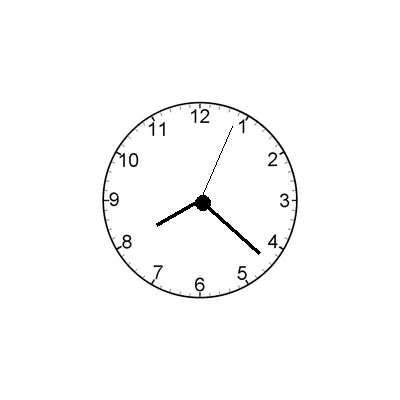
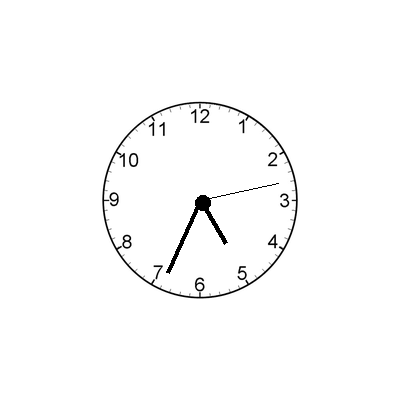
I arranged the buttons in grid form

Changed region(s): [[0.39, 0.51, 0.66, 0.69]]

diff --git a/Main.py b/Main.py
@@ -1,6 +1,7 @@
 
 import tkinter as tk
 from tkinter import ttk
+from tkinter import messagebox
 from math import *
 import time as tm
 import sqlite3
@@ -28,8 +29,15 @@ class AmazingButler(tk.Tk):
         menubar = tk.Menu(container)
         filemenu = tk.Menu(menubar, tearoff=0)
         menubar.add_cascade(label='File', menu=filemenu)
+        filemenu.add_command(label="New")
+        filemenu.add_command(label="Exit", command=lambda: self.controller.show_frame(StartPage))
+        
         Editmenu = tk.Menu(menubar, tearoff=0)
         menubar.add_cascade(label='Edit', menu=Editmenu)
+        Editmenu.add_command(label="Cut")
+        Editmenu.add_command(label="Copy")
+        Editmenu.add_command(label="Paste")
+        
         Optionsmenu = tk.Menu(menubar, tearoff=0)
         menubar.add_cascade(label='Options', menu=Optionsmenu)
         Toolsmenu = tk.Menu(menubar, tearoff=0)
@@ -40,6 +48,7 @@ class AmazingButler(tk.Tk):
         menubar.add_cascade(label='Help', menu=helpmenu)
         
         tk.Tk.config(self, menu=menubar)
+        
         
         self.frames = {}
         
@@ -274,32 +283,146 @@ class StartPage(tk.Frame):
 class PageOne(tk.Frame):
     def __init__(self, parent, controller):
         tk.Frame.__init__(self, parent)
+        tk.Frame.__init__(self, parent)
+        self.controller = controller
+        self.lbl = tk.Label(self, bg="white")
+        self.lbl.place(x=10, y=10, height=200, width=200)
         
+        self.working()
+        self.calendar()
+        self.weather() 
         self.button()
+        controller=self.controller
+        
+        
       
     def button(self):
         
+        self.grid_rowconfigure(0, weight=1, minsize=30)
+        self.grid_columnconfigure(0, weight=1, minsize=30)
+        
+        
         logout = tk.Button(self, text="Logout", fg='white', bd = '5', bg = 'blue',
-                           command=self.destroy)
-        logout.pack()
-        logout.place(x=800, y=100, height=60, width=200)
+                           command=lambda: self.controller.show_frame(StartPage))
+        logout.config(height = 3, width = 15)
+        logout.grid(row=1, column=4, padx=5, pady=5, sticky = 'nw')
         
         addtrans = tk.Button(self, text="Add transaction", fg='white', bd = '5', bg = 'blue' )
-        addtrans.place(x=800, y=200, height=60, width=200)
+        addtrans.config(height = 3, width = 15)
+        addtrans.grid(row=2, column=4, padx=5, pady=5, sticky = 'nw')
         
         editaccount = tk.Button(self, text="Edit account", fg='white', bd = '5', bg = 'blue' )
-        editaccount.place(x=800, y=300, height=60, width=200)
+        editaccount.config(height = 3, width = 15)
+        editaccount.grid(row=3, column=4, padx=5, pady=5, sticky = 'sw')
         
         setup = tk.Button(self, text="Setup", fg='white', bd = '5', bg = 'blue' )
-        setup.place(x=800, y=400, height=60, width=200)
+        setup.config(height = 3, width = 15)
+        setup.grid(row=4, column=4, padx=5, pady=5, sticky = 'sw')
         
-        Accountsum = tk.Button(self, text="Account summary", fg='white', bd = '5', bg = 'blue' )
-        Accountsum.place(x=800, y=500, height=60, width=200)
+        Accountsum = tk.Button(self, text="Setup", fg='white', bd = '5', bg = 'blue' )
+        Accountsum.config(height = 3, width = 15)
+        Accountsum.grid(row=5, column=4, padx=5, pady=5, sticky = 'sw')
         
         playlotto = tk.Button(self, text="Play lotto", fg='white', bd = '5', bg = 'blue' )
-        playlotto.place(x=800, y=600, height=60, width=200)
+        playlotto.config(height = 3, width = 15)
+        playlotto.grid(row=6, column=4, padx=5, pady=5, sticky = 'sw')
+        
+
+    def clock_image(self, hr, min_, sec_):
+        clock=Image.new("RGB",(400, 400), (255, 255, 255))
+        draw = ImageDraw.Draw(clock)
+        # For clock image
+        bg = Image.open("clock4.png")
+        bg=bg.resize((200,200), Image.ANTIALIAS)
+        clock.paste(bg, (100, 100))
+        
+       
+        # Hour Line Image
+        origin = 200, 200
+        draw.line((origin, 200+50*sin(radians(hr)), 
+                   200-50*cos(radians(hr))), fill="black", width=4)
+        # Min Line Image
+        draw.line((origin, 200+80*sin(radians(min_)), 
+                   200-80*cos(radians(min_))), fill="black", width=4)
+        # Sec Line Image
+        draw.line((origin, 200+80*sin(radians(sec_)), 
+                   200-80*cos(radians(sec_))), fill="black", width=1)
+        
+        draw.ellipse((195, 195, 210, 210), fill="black")
         
         
+        clock.save("clock_new.png")
+        
+        
+    def working(self):
+        
+        
+        h=datetime.now().time().hour
+        m=datetime.now().time().minute
+        s=datetime.now().time().second
+                
+        # Formula to convert clock in circle values for analog clock        
+        hr = (h/12)*360
+        min_=(m/60)*360
+        sec_=(s/60)*360
+        
+        self.clock_image(hr,min_,sec_)
+        self.img = ImageTk.PhotoImage(file="clock_new.png")
+        self.lbl.config(image=self.img)
+        self.lbl.after(200, self.working)
+        
+        
+    def calendar(self):
+        
+        # Make a frame
+        f1 = tk.Frame(self, width = 250, height = 250)
+        f1.place(x=10, y=230)
+        
+        #Place calendar inside frame
+        cal = Calendar(f1, selectmode = "day", 
+                       background = "darkblue", foreground = "white")
+        
+        cal.place(width = 250, height = 250)
+        
+    def weather(self):
+        
+        
+        owm = OpenWeatherMap()
+        # Define city
+        owm.get_city('Vantaa')
+        
+        # gets temp value
+        temperature = owm.get_main('temp')
+        # Find weather icon 
+        temp_icon = OWIconLabel(self, 
+                                weather_icon=owm.get_icon_data(), bg="white")
+        temp_icon.place(x=350, y=25)
+        
+        # Gets location name
+        location = owm.get('name')
+        #gets country name
+        country = owm.get_sys("country")
+        # Country and city label
+        self.location_lbl = tk.Label(self, 
+                                     text="{}, {}".format(location, country), 
+                                     font=("Bold", 15), bg="white")
+        self.location_lbl.place(x=360, y=10)
+
+        # Temperature label
+        self.temp = tk.Label(self,
+                             text='{:.1f} °C'.format(temperature),
+                             font=("Bold", 15), bg="white")
+        self.temp.place(x=410, y=40)
+        
+        # Temperature \'feel like'\ value
+        temp_feel = owm.get_main('feels_like')
+        # Weather description
+        desc = owm.get_weather('description')
+        # Temperature \'feel like'\ and Weather description label
+        self.fell_lbl = tk.Label(self, 
+                                 text="Feels like: {:.1f} °C. {}".format(temp_feel, 
+                                 desc.capitalize()), font=("Bold", 13), bg="white")
+        self.fell_lbl.place(x=360, y=70)
         
         
 app = AmazingButler()
